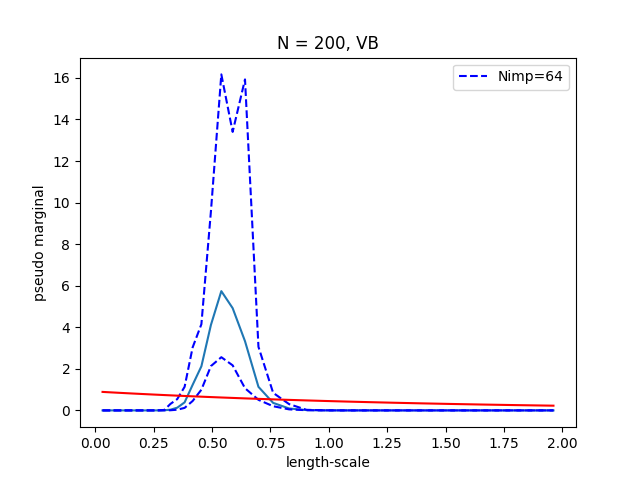
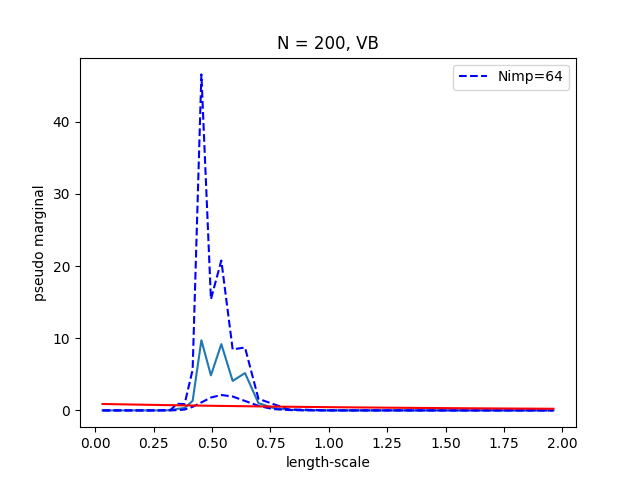
refactor changes for gpflow.py

diff --git a/probit/gpflow.py b/probit/gpflow.py
@@ -1,5 +1,6 @@
 """GPFlow models. Probably no need to inherit Approximator here."""
 from probit.approximators import Approximator
+from probit.utilities import check_cutpoints
 from tqdm import trange
 import warnings
 import matplotlib.pyplot as plt
@@ -83,11 +84,11 @@ class VGP(Approximator):
             ax.plot(self.X_train, self.t_train, "o")
         warnings.warn("Done initiating model using gpflow.")
         # Fix hyperparameters - difficult to do without letting user do it
-        #gpflow.set_trainable(self._model.kernel.lengthscales, False)
-        #gpflow.set_trainable(self._model.kernel.variance, False)
+        gpflow.set_trainable(self._model.kernel.lengthscales, False)
+        gpflow.set_trainable(self._model.kernel.variance, False)
         # bin_edges are not trainable in GPFlow!
         # gpflow.set_trainable(self._model.likelihood.bin_edges, False)
-        # gpflow.set_trainable(self._model.likelihood.sigma, False)
+        gpflow.set_trainable(self._model.likelihood.sigma, False)
         # Instantiate optimizer
         self._optimizer = gpflow.optimizers.Scipy()
         self._training_loss = self._model.training_loss
@@ -107,9 +108,9 @@ class VGP(Approximator):
             # MonitorTaskGroup(image_task, period=5)
         )
 
-    def get_theta(self, indices):
+    def get_phi(self, indices):
         """
-        Get the parameters (theta) for unconstrained optimization.
+        Get the parameters (phi) for unconstrained optimization.
 
         :arg indices: Indicator array of the hyperparameters to optimize over.
             TODO: it is not clear, unless reading the code from this method,
@@ -117,23 +118,23 @@ class VGP(Approximator):
             interface to expect a dictionary with keys the hyperparameter
             names and values a bool that they are fixed?
         :type indices: :class:`numpy.ndarray`
-        :returns: The unconstrained parameters to optimize over, theta.
+        :returns: The unconstrained parameters to optimize over, phi.
         :rtype: :class:`numpy.array`
         """
-        theta = []
+        phi = []
         if indices[0]:
-            theta.append(np.log(np.sqrt(self.noise_variance)))
+            phi.append(np.log(np.sqrt(self.noise_variance)))
         if indices[1]:
-            theta.append(self.cutpoints[1])
+            phi.append(self.cutpoints[1])
         for j in range(2, self.J):
             if indices[j]:
-                theta.append(np.log(self.cutpoints[j] - self.cutpoints[j - 1]))
+                phi.append(np.log(self.cutpoints[j] - self.cutpoints[j - 1]))
         if indices[self.J]:
-            theta.append(np.log(np.sqrt(self.kernel.variance)))
+            phi.append(np.log(np.sqrt(self.kernel.variance)))
         # TODO: replace this with kernel number of hyperparameters.
         if indices[self.J + 1]:
-            theta.append(np.log(2./(self.kernel.lengthscales.numpy()**2)))
-        return np.array(theta)
+            phi.append(np.log(self.kernel.lengthscales.numpy()))
+        return np.array(phi)
 
     def hyperparameters_update(
             self, cutpoints=None, varphi=None, variance=None,
@@ -154,15 +155,12 @@ class VGP(Approximator):
         :type varphi_hyperparameters:
         """
         if cutpoints is not None:
-            self.cutpoints = self._check_cutpoints(cutpoints)
+            self.cutpoints = check_cutpoints(cutpoints, self.J)
             self.cutpoints_ts = self.cutpoints[self.t_train]
             self.cutpoints_tplus1s = self.cutpoints[self.t_train + 1]
             # self._model.likelihood.bin_edges = self.cutpoints[1:-1]
         if varphi is not None:
-            print(np.sqrt(2./varphi))
-            self._model.kernel.lengthscales.assign(np.sqrt(2./varphi))
-            print(self._model.kernel.lengthscales.numpy())
-            assert 0
+            self._model.kernel.lengthscales.assign(varphi)
         if variance is not None:
             self._model.kernel.variance.assign(variance)
         if noise_variance is not None:
@@ -379,11 +377,11 @@ class SVGP(VGP):
         # Fix inducing variables
         gpflow.set_trainable(self._model.inducing_variable, False)
         # Fix hyperparameters
-        # gpflow.set_trainable(self._model.kernel.lengthscales, False)
-        # gpflow.set_trainable(self._model.kernel.variance, False)
+        gpflow.set_trainable(self._model.kernel.lengthscales, False)
+        gpflow.set_trainable(self._model.kernel.variance, False)
         # bin_edges are not trainable in GPFlow!
         # gpflow.set_trainable(self._model.likelihood.bin_edges, False)
-        # gpflow.set_trainable(self._model.likelihood.sigma, False)
+        gpflow.set_trainable(self._model.likelihood.sigma, False)
         log_dir_scipy = "scipy"
         model_task = ModelToTensorBoard(
             log_dir_scipy, self._model)
